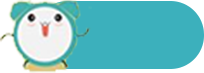
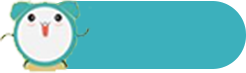
test

diff --git a/1007/paihang.html b/1007/paihang.html
@@ -31,12 +31,11 @@
 								<span>1</span>
 							</td>
 							<td>
-								<img class="fl" src="images/i002.jpg" alt="">
 								<p>YuanLF</p>	
 								<small>182****1563</small>
 							</td>
 							<td>
-								12s
+								12'12''1
 							</td>
 						</tr>
 						<tr>
@@ -44,12 +43,11 @@
 								<span>2</span>
 							</td>
 							<td>
-								<img class="fl" src="images/i002.jpg" alt="">
 								<p>YuanLF</p>	
 								<small>182****1563</small>
 							</td>
 							<td>
-								12s
+								12'12''1
 							</td>
 						</tr>
 						<tr>
@@ -57,12 +55,11 @@
 								<span>3</span>
 							</td>
 							<td>
-								<img class="fl" src="images/i002.jpg" alt="">
 								<p>YuanLF</p>	
 								<small>182****1563</small>
 							</td>
 							<td>
-								12s
+								12'12''1
 							</td>
 						</tr>
 						<tr>
@@ -70,12 +67,11 @@
 								<span>4</span>
 							</td>
 							<td>
-								<img class="fl" src="images/i002.jpg" alt="">
 								<p>YuanLF</p>	
 								<small>182****1563</small>
 							</td>
 							<td>
-								12s
+								12'12''1
 							</td>
 						</tr>
 						<tr>
@@ -83,12 +79,11 @@
 								<span>5</span>
 							</td>
 							<td>
-								<img class="fl" src="images/i002.jpg" alt="">
 								<p>YuanLF</p>	
 								<small>182****1563</small>
 							</td>
 							<td>
-								12s
+								12'12''1
 							</td>
 						</tr>
 						<tr>
@@ -96,12 +91,11 @@
 								<span>5</span>
 							</td>
 							<td>
-								<img class="fl" src="images/i002.jpg" alt="">
 								<p>YuanLF</p>	
 								<small>182****1563</small>
 							</td>
 							<td>
-								12s
+								12'12''1
 							</td>
 						</tr>
 						<tr>
@@ -109,12 +103,11 @@
 								<span>5</span>
 							</td>
 							<td>
-								<img class="fl" src="images/i002.jpg" alt="">
 								<p>YuanLF</p>	
 								<small>182****1563</small>
 							</td>
 							<td>
-								12s
+								12'12''1
 							</td>
 						</tr>
 						<tr>
@@ -122,12 +115,11 @@
 								<span>5</span>
 							</td>
 							<td>
-								<img class="fl" src="images/i002.jpg" alt="">
 								<p>YuanLF</p>	
 								<small>182****1563</small>
 							</td>
 							<td>
-								12s
+								12'12''1
 							</td>
 						</tr>
 						<tr>
@@ -135,12 +127,11 @@
 								<span>5</span>
 							</td>
 							<td>
-								<img class="fl" src="images/i002.jpg" alt="">
 								<p>YuanLF</p>	
 								<small>182****1563</small>
 							</td>
 							<td>
-								12s
+								12'12''1
 							</td>
 						</tr>
 						<tr>
@@ -148,12 +139,11 @@
 								<span>5</span>
 							</td>
 							<td>
-								<img class="fl" src="images/i002.jpg" alt="">
 								<p>YuanLF</p>	
 								<small>182****1563</small>
 							</td>
 							<td>
-								12s
+								12'12''1
 							</td>
 						</tr>
 

diff --git a/1007/game.html b/1007/game.html
@@ -24,17 +24,29 @@
 
 		function timeCount(){
 			var second = 1.1,
-				minute = 0.1;
+				minute = 0.1,
+				msec = 0.1;
 			timer=setInterval(function(){
-				if(second == 60.1){
-					minute++;
-					second=0.1;
+				if(msec == 10.1){
+					if(second == 60.1){
+						minute++;
+						second=0.1;
+						msec = 0.1;
+					}else{
+						second++;
+						msec = 0.1;
+					}
 				}
-				if(second == 60.1 && minute == 60.1) alert('歇歇吧！！！')
-				document.getElementById('time').innerHTML = (minute/100).toString().substr(2,2)+':'+(second/100).toString().substr(2,2);
-				secondCount = parseInt((minute-0.1)*60+(second-0.1));
-				second++;
-			},1000)
+				
+				if(second == 60.1 && minute == 60.1) {
+					alert('歇歇吧！！！');
+					window.location.href="index.html";
+					return;
+				}
+				document.getElementById('time').innerHTML = (minute/100).toString().substr(2,2)+':'+(second/100).toString().substr(2,2)+':'+(msec/10).toString().substr(2,1);
+				secondCount = parseInt((minute-0.1)*60+(second-0.1))+(msec-0.1)/10;
+				msec++;
+			},100)
 		}
 		window.onload=function(){
 			var num=3;
@@ -67,8 +79,8 @@
 		<div class="head">
 			<img class="bg" src="images/2_02.png"  alt="">
 			<img class="guize" src="images/guize@2x.png" alt="">
-			<div class="time" id="time">00:00</div>
-			<div class="score">600s</div>
+			<div class="time" id="time">00:00:0</div>
+			<div class="score">12'12''2</div>
 			
 		</div>
 		<div class="content clearfix">
@@ -82,16 +94,16 @@
 <script src="../_public/public.js"></script>
 <script src="src/index.js"></script>
 <script>
-	var imglist=[[1,'images/i001.jpg'],
-				 [2,'images/i002.jpg'],
-				 [3,'images/i003.jpg'],
-				 [4,'images/i004.jpg'],
-				 [5,'images/i005.jpg'],
-				 [6,'images/i006.jpg'],
-				 [7,'images/i007.jpg'],
-				 [8,'images/i008.jpg'],
-				 [9,'images/i009.jpg'],
-				 [10,'images/i010.jpg']];
+	var imglist=[[1,'images/1.jpg'],
+				 [2,'images/2.jpg'],
+				 [3,'images/3.jpg'],
+				 [4,'images/4.jpg'],
+				 [5,'images/5.jpg'],
+				 [6,'images/6.jpg'],
+				 [7,'images/7.jpg'],
+				 [8,'images/8.png'],
+				 [9,'images/9.jpg'],
+				 [10,'images/10.png']];
 	// var imglist=[[1,'images/i001.jpg'],
 	// 			 [1,'images/i002.jpg'],
 	// 			 [1,'images/i003.jpg'],

diff --git a/1007/src/index.css b/1007/src/index.css
@@ -38,7 +38,7 @@ body{
 .game .head table{width: 100%;}
 .game .head table td{text-align: center;vertical-align: middle;}
 .game .head table td:last-child{color: #be4646;}
-.time{width: 2.72rem;height: 0.97rem;background: url(../images/time.png) center no-repeat; background-size: contain;color: #fff;line-height: 0.97rem;padding-left: 1.3rem;position: absolute;right: 2%;bottom: 14%;}
+.time{width: 3.28rem;height: 0.97rem;background: url(../images/time.png) center no-repeat; background-size: contain;color: #fff;line-height: 0.97rem;padding-left: 1.3rem;position: absolute;right: 2%;bottom: 14%;}
 
 .game .head .guize{width:14%;position: absolute;left: 42.2%;top: 16%;}
 .game .head .score{font-size: 0.53rem;color: #be4646; position: absolute;left: 29%;top: 64%;}
@@ -336,10 +336,10 @@ body{
     margin-left: -1.7rem;
     margin-top: -3rem;
 }
-.spinner2 .img1{width: 2.72rem;height: 2.72rem; position: absolute;top: 0;left: 0;-webkit-animation: rotate360 1.2s infinite linear;
+.spinner2 .img1{width: 2.72rem;height: 2.72rem; position: absolute;top: 0;left: 0.34rem;-webkit-animation: rotate360 1.2s infinite linear;
     animation: rotate360 1.2s infinite linear;}
-.spinner2 .img2{width: 1.1rem;height: 1.37rem; position: absolute;top: 0.675rem;left: 0.81rem;}
-.spinner2 .img3{width: 0.106rem;height: 0.32rem; position: absolute;top: 1.14rem;left: 1.307rem;-webkit-animation: rotate360clock 1.2s infinite linear;
+.spinner2 .img2{width: 1.1rem;height: 1.37rem; position: absolute;top: 0.675rem;left: 1.15rem;}
+.spinner2 .img3{width: 0.106rem;height: 0.32rem; position: absolute;top: 1.14rem;left: 1.647rem;-webkit-animation: rotate360clock 1.2s infinite linear;
     animation: rotate360clock 1.2s infinite linear;}
 .spinner2 .img4{width: 3.36rem;height: 0.586rem; position: absolute;bottom: 2rem;left: 0;}
 .shareTip3 input::-webkit-input-placeholder{color: #7c7c7c;line-height: 1.4em;}
